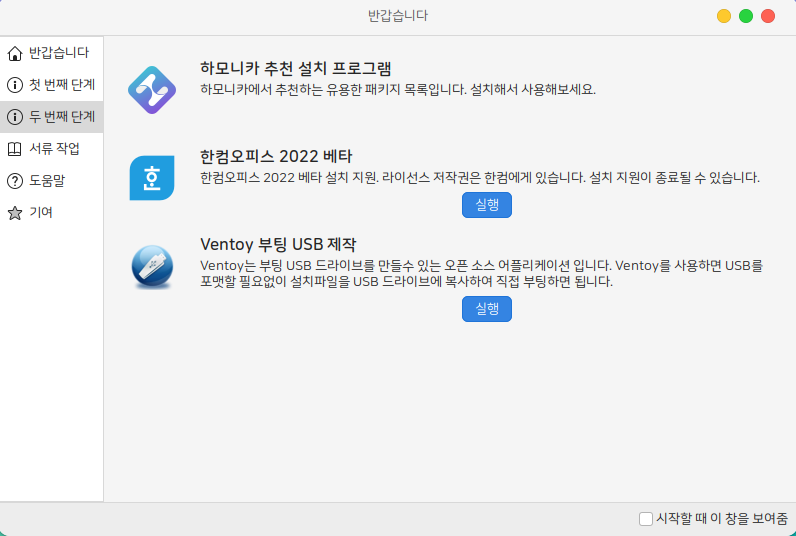
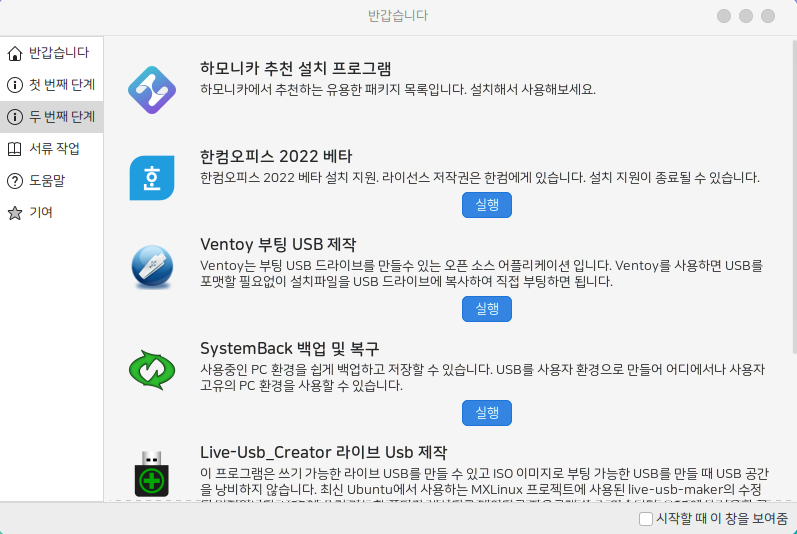
add systemback live-usb-creator hamonikr-cli-tools

diff --git a/usr/lib/linuxmint/mintwelcome/mintwelcome.py b/usr/lib/linuxmint/mintwelcome/mintwelcome.py
@@ -95,6 +95,9 @@ class MintWelcome():
         # second_steps
         builder.get_object("button_hancom").connect("clicked", self.launch, "hoffice-support")
         builder.get_object("button_ventoy").connect("clicked", self.visit, "apt://ventoy?refresh=yes")
+        builder.get_object("button_systemback").connect("clicked", self.visit, "apt://systemback?refresh=yes")
+        builder.get_object("button_live_usb_creator").connect("clicked", self.visit, "apt://live-usb-creator?refresh=yes")
+        builder.get_object("button_hamonikr_cli_tools").connect("clicked", self.visit, "apt://hamonikr-cli-tools?refresh=yes")
 
         # Settings button depends on DE
         de_is_cinnamon = False
